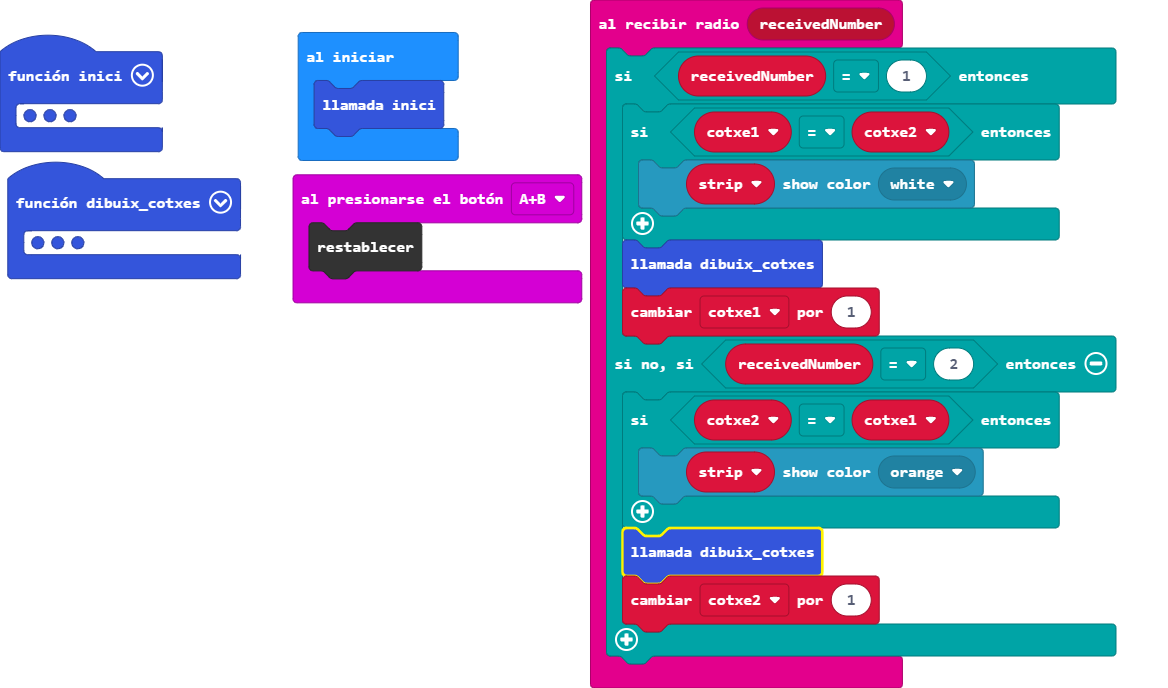
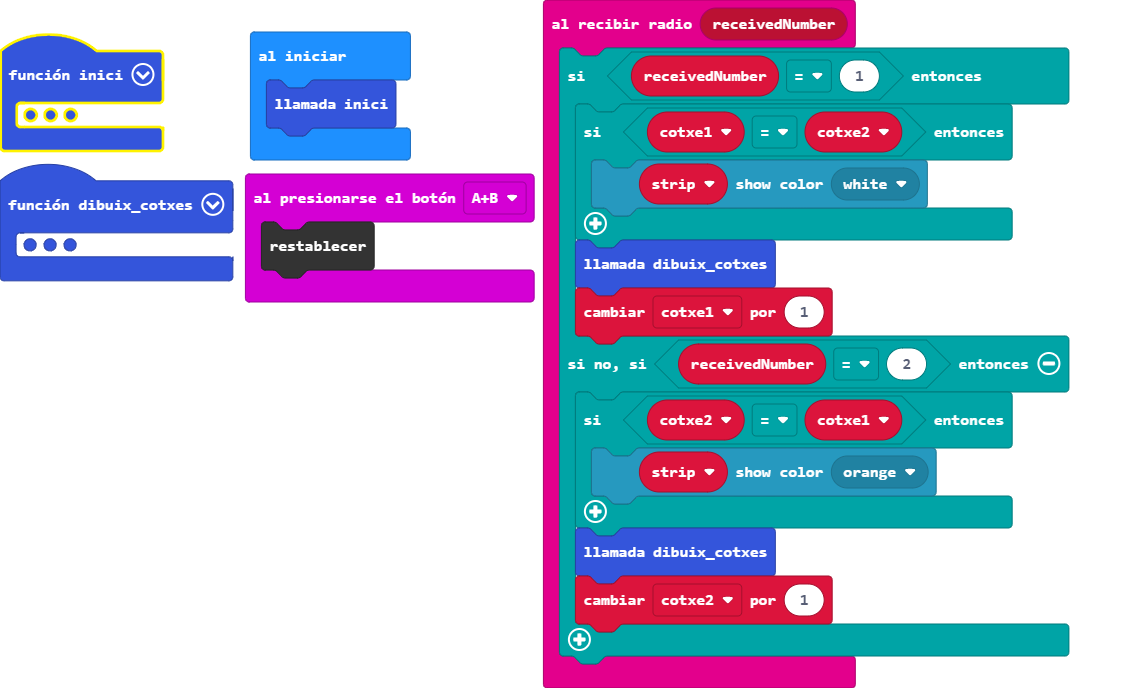
Actualizar main.blocks, main.ts

Changed region(s): [[0.0, 0.0, 0.9679, 1.0], [0.7493, 0.9462, 0.7806, 1.0]]

diff --git a/main.ts b/main.ts
@@ -20,9 +20,14 @@ function inici () {
     strip.show()
     cotxe1 = 1
     cotxe2 = 1
-    strip.setPixelColor(cotxe1, neopixel.colors(NeoPixelColors.Purple))
-    strip.setPixelColor(cotxe2, neopixel.colors(NeoPixelColors.Orange))
-    strip.show()
+    for (let index = 0; index < 4; index++) {
+        strip.showRainbow(1, 360)
+        basic.pause(200)
+        strip.clear()
+        strip.show()
+        basic.pause(100)
+    }
+    dibuix_cotxes()
     basic.showLeds(`
         . . . . .
         . . . . .
